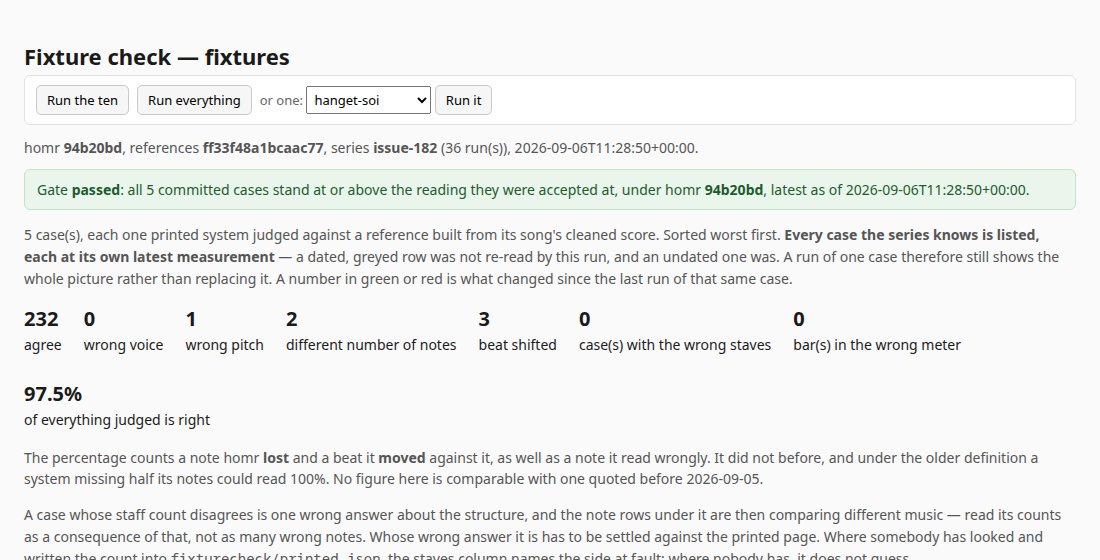
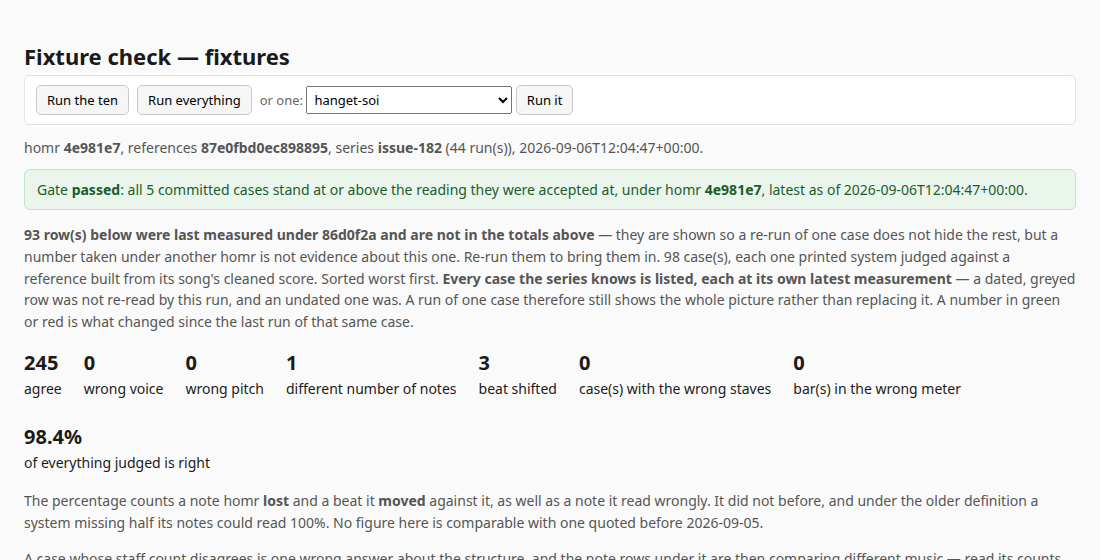
Re-earn the five fixtures' memories on the merged head
The committed readings were recorded under homr 94b20bd and an older
comparison. Merging #33 changed both: homr now writes a unison into both
voices, the check collapses unisons on both sides, and hanget-soi goes
85.29% to 91.89% and sammon-ryosto 97.62% to 97.92%. Carrying the old
numbers over would publish a memory taken under one homr as a claim about
another, which is the confusion this gate exists to prevent — so they are
re-earned rather than merged.

The two runs my branch had appended to the series are dropped for the same
reason and not because history is being tidied: they are labelled by homr's
commit, which keys on `homr/` alone and so cannot say that `compare.py`
changed underneath them. Two rows nobody could tell apart from rows taken
under the current comparison is exactly the failure this harness is built
around. They were never on main.

Two real runs on the merged head under homr 4e981e7: the first records the
five first sightings, the second is judged against them and passes with
exit 0. 98.4% of 249 judged, up from 97.5% of 238.

Refs eerovil/musescore-choir-plugins#182

diff --git a/QUALITY.md b/QUALITY.md
@@ -6,23 +6,23 @@ Regenerated from `fixturecheck/series.jsonl` on every run — do not edit by han
 
 | harness | measured | homr | references | of everything judged, right | cases |
 | --- | --- | --- | --- | --- | --- |
-| `fixturecheck` | 2026-09-06T10:55:01+00:00 (one) | `ffa2327+dirty` | `ff33f48a1bcaac77` | **98.4%** | 5 read |
+| `fixturecheck` | 2026-09-06T12:04:47+00:00 (fixtures) | `4e981e7` | `87e0fbd0ec898895` | **98.4%** | 5 read |
 | `choir-bench` | _never_ | — | — | — | — |
 
 The two are **not averaged**. `fixturecheck` scores notes across the printed systems of the repertoire; `choir-bench` scores staves and bars across the public-domain benchmark pages. They answer different questions and a single figure over both would mean nothing.
 
 ## The gate
 
-**FAIL** — 3/5 perfect under homr `ffa2327+dirty`, latest as of 2026-09-06T10:55:01+00:00; below 100%: `hanget-soi`, `sammon-ryosto`. Each fixture counts by its own latest result under that homr, so re-running one cannot speak for the others.
+**pass** — all 5 committed cases stand at or above the reading they were accepted at, under homr `4e981e7`, latest as of 2026-09-06T12:04:47+00:00.
 
-The five committed fixtures are small single systems this repository owns outright, and they are expected to be **perfect**. Anything less is a failure of the run, not a row in a table.
+**Nothing gets worse, per case.** Each case remembers the notes-right score it was last accepted at; a run fails if any case reads below its own memory, and a case that improves has its memory raised. Not a total — a win on one page must not pay for a loss on another. Three tiers under one rule: the pinned failures, the five committed fixtures, and every song system on the host that owns the songs.
+
+**No number here says a parse is right.** That word belongs to the operator, reading the case pages against the printed music; what is published is how far each case has moved and what is still wrong with it.
 
 ## Over time
 
 | when | harness | tier | homr | references | right |
 | --- | --- | --- | --- | --- | --- |
-| 2026-09-05T06:06:28+00:00 | `fixturecheck` | one | `71e6819` | `ff33f48a1bcaac77` | 85.3% |
-| 2026-09-05T06:38:59+00:00 | `fixturecheck` | one | `71e6819` | `ff33f48a1bcaac77` | 95.8% |
 | 2026-09-05T14:10:54+00:00 | `fixturecheck` | one | `8faa87b` | `ff33f48a1bcaac77` | 97.5% |
 | 2026-09-05T14:33:10+00:00 | `fixturecheck` | one | `94b20bd` | `ff33f48a1bcaac77` | 97.5% |
 | 2026-09-05T17:09:23+00:00 | `fixturecheck` | all | `94b20bd` | `ff33f48a1bcaac77+new93` | 88.5% |
@@ -33,6 +33,8 @@ The five committed fixtures are small single systems this repository owns outrig
 | 2026-09-06T09:49:00+00:00 | `fixturecheck` | one | `86d0f2a+dirty` | `ff33f48a1bcaac77` | 98.4% |
 | 2026-09-06T10:02:22+00:00 | `fixturecheck` | one | `86d0f2a+dirty` | `ff33f48a1bcaac77` | 98.4% |
 | 2026-09-06T10:55:01+00:00 | `fixturecheck` | one | `ffa2327+dirty` | `ff33f48a1bcaac77` | 98.4% |
+| 2026-09-06T12:04:14+00:00 | `fixturecheck` | fixtures | `4e981e7` | `87e0fbd0ec898895` | 98.4% |
+| 2026-09-06T12:04:47+00:00 | `fixturecheck` | fixtures | `4e981e7` | `87e0fbd0ec898895` | 98.4% |
 
 A tier is not a sample of the one above it — a ten-case run and a full sweep are different populations, so read a percentage against runs of the same tier.
 
